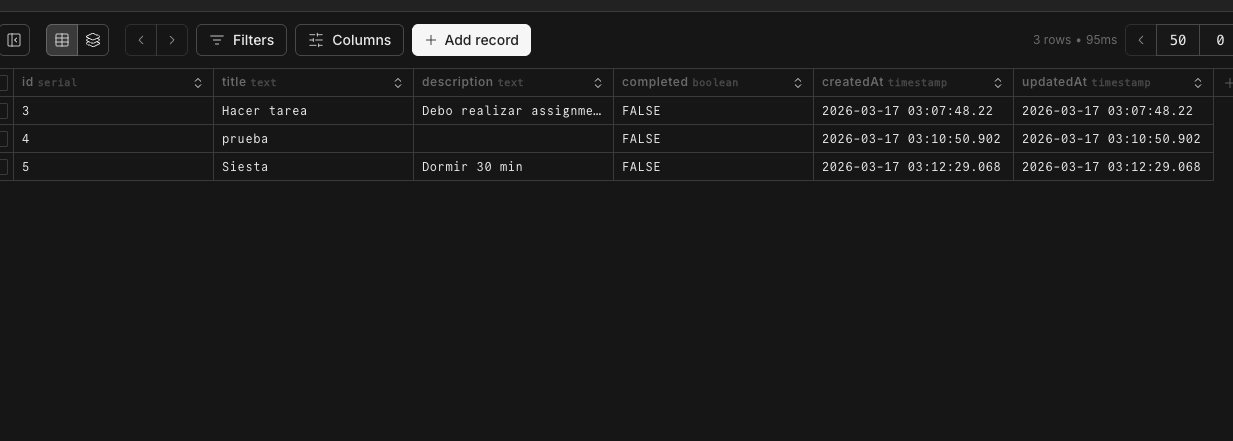
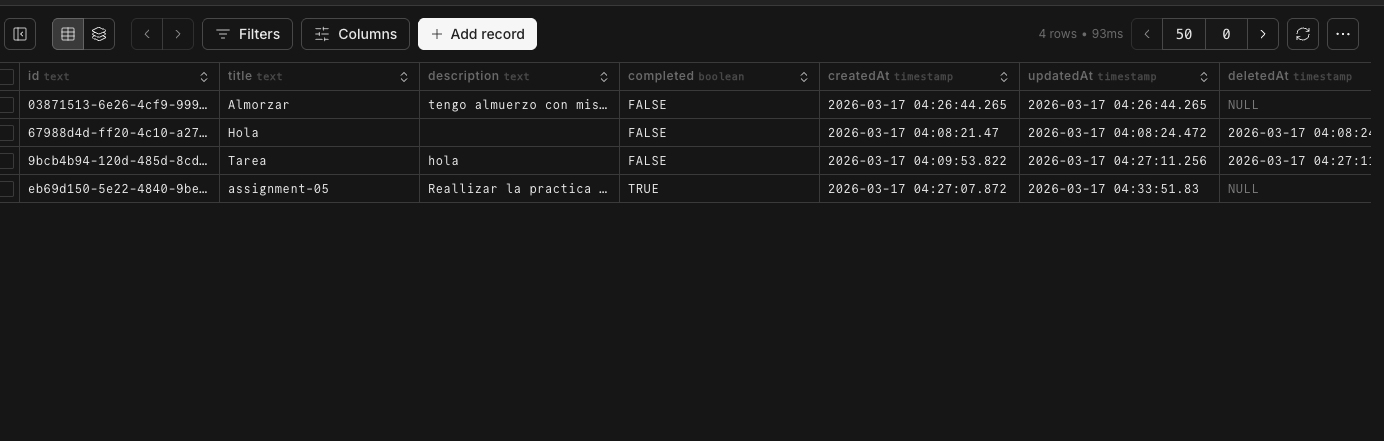
docs: update readme with migrations and soft delete info

Changed region(s): [[0.0, 0.0295, 1.0, 0.4717]]

diff --git a/README.md b/README.md
@@ -49,6 +49,17 @@ model Task {
   updatedAt   DateTime @updatedAt
 }
 ```
+## Migraciones
+
+| Migración | Descripción |
+|---|---|
+| `init` | Creación inicial de la tabla Task |
+| `add-uuid-and-soft-delete` | Cambio de id a UUID y agregado de soft delete |
+
+Las migraciones se aplican automáticamente en cada deploy con:
+\```bash
+prisma migrate deploy
+\```
 
 ### Screenshot de la base de datos en Neon
 
@@ -61,7 +72,7 @@ model Task {
 | GET | /api/tasks | Obtener todas las tareas |
 | POST | /api/tasks | Crear una tarea |
 | PATCH | /api/tasks/:id | Actualizar una tarea |
-| DELETE | /api/tasks/:id | Eliminar una tarea |
+| DELETE | /api/tasks/:id | Eliminar una tarea (soft delete) |
 
 > Documentación completa disponible en `/api/docs`
 
